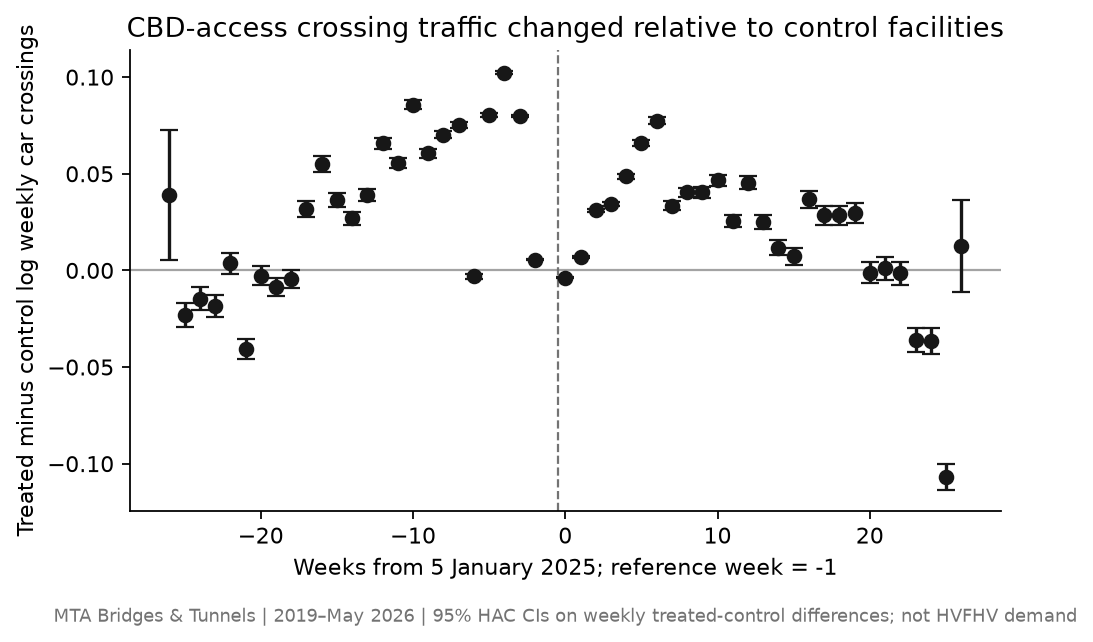
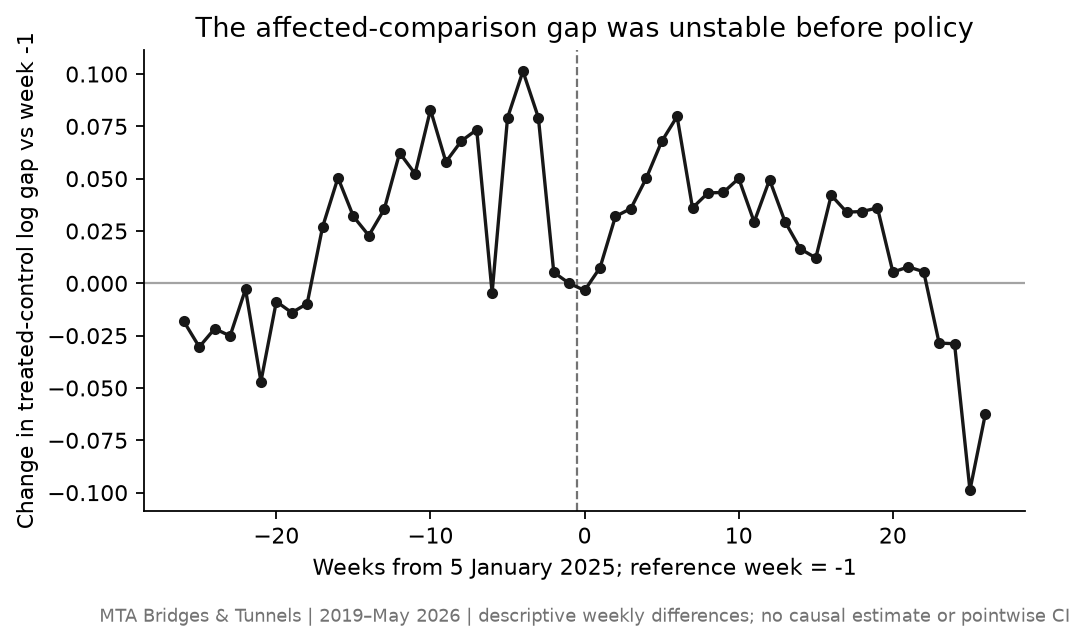
Focus portfolio and add public resume

diff --git a/src/app/resume/page.tsx b/src/app/resume/page.tsx
@@ -1,0 +1,79 @@
+import Link from "next/link";
+import { Button } from "@/components/ui/Button";
+import { education, experience, skills } from "@/lib/profile";
+import { getAllProjects } from "@/lib/mdx";
+
+export const metadata = {
+  title: "Resume",
+  description: "Public resume for Hadi Budhy, a data analyst focused on growth and decision analytics.",
+  alternates: { canonical: "/resume" },
+};
+
+export default function ResumePage() {
+  const selectedProjects = getAllProjects().filter((project) => ["campaign-incrementality", "mta-congestion-pricing-causal-audit", "marketplace-supply-demand"].includes(project.slug));
+
+  return (
+    <article className="mx-auto w-full max-w-3xl px-4 py-14 print:max-w-none print:px-0 print:py-0 sm:px-6 sm:py-20">
+      <header className="border-b border-border pb-10">
+        <p className="section-kicker">Public resume</p>
+        <h1 className="mt-4 text-4xl font-bold tracking-tight text-foreground sm:text-6xl">Hadi Budhy</h1>
+        <p className="mt-3 text-lg text-primary">Data Analyst · Growth &amp; Decision Analytics</p>
+        <p className="mt-4 max-w-2xl leading-7 text-muted-foreground">Jakarta, Indonesia · 5+ years across business intelligence, customer analytics, and data automation; applied AI demonstrated through public portfolio work.</p>
+        <div className="mt-6 flex flex-wrap gap-x-5 gap-y-2 text-sm font-semibold">
+          <a className="focus-ring text-primary hover:text-foreground" href="mailto:hadi.budhy@gmail.com">hadi.budhy@gmail.com</a>
+          <a className="focus-ring text-primary hover:text-foreground" href="https://linkedin.com/in/hadibudhy" target="_blank" rel="noreferrer">LinkedIn</a>
+          <a className="focus-ring text-primary hover:text-foreground" href="https://github.com/hadibudhy" target="_blank" rel="noreferrer">GitHub</a>
+        </div>
+      </header>
+
+      <section className="border-b border-border py-10">
+        <p className="section-kicker">Profile</p>
+        <p className="mt-4 leading-7 text-muted-foreground">Turns messy business data into decision-ready analysis, reliable reporting, and practical tests. Public work demonstrates experimental design, causal restraint, and marketplace measurement.</p>
+      </section>
+
+      <section className="border-b border-border py-10">
+        <p className="section-kicker">Experience</p>
+        <div className="mt-6">
+          {experience.map((item) => (
+            <div key={`${item.period}-${item.role}`} className="border-t border-border py-6 first:border-t-0 first:pt-0">
+              <div className="flex flex-col justify-between gap-2 sm:flex-row sm:items-baseline">
+                <h2 className="text-xl font-bold text-foreground">{item.role}</h2>
+                <span className="text-sm text-primary">{item.period}</span>
+              </div>
+              <p className="mt-1 text-sm font-semibold text-foreground/70">{item.setting}</p>
+              <p className="mt-3 leading-7 text-muted-foreground">{item.description}</p>
+            </div>
+          ))}
+        </div>
+      </section>
+
+      <section className="border-b border-border py-10">
+        <p className="section-kicker">Selected evidence</p>
+        <div className="mt-6 grid gap-5 sm:grid-cols-2">
+          {selectedProjects.map((project) => (
+            <Link key={project.slug} href={`/projects/${project.slug}`} className="focus-ring border-t border-border pt-4 hover:border-primary">
+              <h2 className="font-bold text-foreground">{project.meta.title}</h2>
+              <p className="mt-2 text-sm leading-6 text-muted-foreground">{project.meta.excerpt}</p>
+            </Link>
+          ))}
+        </div>
+      </section>
+
+      <section className="border-b border-border py-10">
+        <div>
+          <p className="section-kicker">Skills &amp; education</p>
+          <p className="mt-5 text-sm leading-7 text-muted-foreground">{skills.join(" · ")}</p>
+          <p className="mt-6 text-sm font-semibold leading-6 text-foreground">{education}</p>
+        </div>
+      </section>
+
+      <footer className="pt-10">
+        <p className="text-sm leading-6 text-muted-foreground">Professional employer names, scale, adoption, and outcome metrics are omitted when they cannot be verified in this public repository. Role-specific context can be discussed in an interview subject to confidentiality.</p>
+        <div className="mt-6 flex flex-wrap gap-3 print:hidden">
+          <Button asChild><a href="mailto:hadi.budhy@gmail.com">Contact Hadi</a></Button>
+          <Button variant="outline" asChild><Link href="/projects">Review case studies</Link></Button>
+        </div>
+      </footer>
+    </article>
+  );
+}

diff --git a/src/app/projects/page.tsx b/src/app/projects/page.tsx
@@ -3,19 +3,19 @@ import { getAllProjects } from "@/lib/mdx";
 
 export const metadata = {
   title: "Case Studies & Projects",
-  description: "Business-focused case studies across growth, product, operations, marketplace quality, and applied AI.",
+  description: "Business-focused case studies across growth, experimentation, marketplace operations, quality, and applied AI.",
   alternates: { canonical: "/projects" },
   openGraph: {
     type: "website",
     url: "https://hadibudhy.github.io/projects",
     title: "Case Studies & Projects | Hadi Budhy",
-    description: "Business-focused case studies across growth, product, operations, marketplace quality, and applied AI.",
+    description: "Business-focused case studies across growth, experimentation, marketplace operations, quality, and applied AI.",
     siteName: "Hadi Budhy",
   },
   twitter: {
     card: "summary",
     title: "Case Studies & Projects | Hadi Budhy",
-    description: "Business-focused case studies across growth, product, operations, marketplace quality, and applied AI.",
+    description: "Business-focused case studies across growth, experimentation, marketplace operations, quality, and applied AI.",
   },
 };
 
@@ -30,7 +30,7 @@ export default function ProjectsPage() {
         <div className="mx-auto w-full max-w-3xl px-4 py-12 sm:px-6 sm:py-14 md:py-16">
           <p className="section-kicker">Case studies</p>
           <h1 className="mt-5 max-w-4xl break-words text-[2.7rem] font-black tracking-[-0.05em] text-foreground sm:text-5xl md:text-7xl">Case studies built around real business questions.</h1>
-          <p className="mt-7 max-w-2xl text-lg leading-8 text-muted-foreground">A focused library of business case studies. Start with the featured work, then explore the deeper analyses across growth, product, operations, marketplace quality, and applied AI.</p>
+          <p className="mt-7 max-w-2xl text-lg leading-8 text-muted-foreground">A focused library of business case studies across growth, experimentation, marketplace operations, quality, and applied AI.</p>
         </div>
       </section>
       <section className="bg-muted/25">
@@ -40,7 +40,7 @@ export default function ProjectsPage() {
             <p className="mt-3 max-w-2xl text-sm leading-6 text-muted-foreground">{featuredProjects.length} studies put the business question, the available evidence, and the limits of each analysis in view.</p>
           </div>
           {projects.length === 0 ? <div className="surface p-8"><p className="text-lg font-semibold text-foreground">No case studies are available yet.</p><p className="mt-2 text-muted-foreground">Please return shortly or use the contact link to request the current portfolio.</p></div> : <div className="grid gap-5 sm:grid-cols-2">{featuredProjects.map((project) => <ProjectCard key={project.slug} slug={project.slug} meta={project.meta} featured />)}</div>}
-          {supportingProjects.length > 0 && <div className="mt-14"><p className="section-kicker mb-2">Supporting library</p><p className="mb-6 max-w-2xl text-sm leading-6 text-muted-foreground">Additional analyses demonstrate breadth across product, marketing, finance, marketplaces, operations, and risk.</p><div className="grid gap-5 sm:grid-cols-2">{supportingProjects.map((project) => <ProjectCard key={project.slug} slug={project.slug} meta={project.meta} />)}</div></div>}
+          {supportingProjects.length > 0 && <div className="mt-14"><p className="section-kicker mb-2">Supporting library</p><p className="mb-6 max-w-2xl text-sm leading-6 text-muted-foreground">Additional analyses show supporting work in customer growth and quality prioritization.</p><div className="grid gap-5 sm:grid-cols-2">{supportingProjects.map((project) => <ProjectCard key={project.slug} slug={project.slug} meta={project.meta} />)}</div></div>}
         </div>
       </section>
     </div>

diff --git a/src/app/page.tsx b/src/app/page.tsx
@@ -25,12 +25,13 @@ export default function Home() {
             </div>
           </div>
           <div className="space-y-5 sm:space-y-6">
-            <h1 className="max-w-full text-[1.8rem] font-normal leading-tight tracking-tight text-foreground sm:text-[2.3rem]">Decision-ready analysis for growth, product, and operations teams.</h1>
+            <h1 className="max-w-full text-[1.8rem] font-normal leading-tight tracking-tight text-foreground sm:text-[2.3rem]">Decision-ready analysis for growth, marketplace, and operations teams.</h1>
             <p className="text-base font-light leading-7 text-muted-foreground sm:text-lg sm:leading-8">I turn messy data into evidence for what to invest in, what to test, and what to stop—while keeping uncertainty visible.</p>
-            <p className="text-sm font-medium leading-6 text-primary">Primary target: Senior Data Analyst · Growth &amp; Decision Analytics. Secondary strengths: experimentation, product analytics, marketplace operations, and analytics engineering.</p>
+            <p className="text-sm font-medium leading-6 text-primary">Primary target: Senior Data Analyst · Growth &amp; Decision Analytics. Secondary strengths: experimentation, marketplace operations, analytics engineering, and applied AI.</p>
             <p className="max-w-2xl text-base leading-7 text-foreground"><span className="font-semibold">Why hire me:</span> In professional work, I own alerting, warehouse pipelines, and live dashboards; in portfolio work, I show how to turn a growth question into a holdout, reject a weak causal comparison, separate marketplace proxies from demand, and build an auditable AI workflow with safe fallback.</p>
             <div className="flex flex-wrap gap-3 pt-2">
               <Button size="lg" asChild><Link href="#work">View the work <span className="ml-3" aria-hidden="true">→</span></Link></Button>
+              <Button size="lg" variant="outline" asChild><Link href="/resume">View resume</Link></Button>
               <Button size="lg" variant="outline" asChild><a href="mailto:hadi.budhy@gmail.com">Get in touch</a></Button>
             </div>
           </div>
@@ -66,7 +67,7 @@ export default function Home() {
             <div>
               <p className="section-kicker">Selected work</p>
               <h2 className="section-title mt-4">Selected case studies and analysis.</h2>
-              <p className="mt-5 max-w-2xl leading-7 text-muted-foreground">{featuredProjects.length} featured case studies put the questions, evidence, and trade-offs first. The full library covers growth, product, operations, marketplace quality, and applied AI.</p>
+              <p className="mt-5 max-w-2xl leading-7 text-muted-foreground">{featuredProjects.length} featured case studies put the questions, evidence, and trade-offs first. The supporting library adds customer growth and quality prioritization.</p>
             </div>
             <Link href="/projects" className="focus-ring inline-flex items-center text-sm font-bold text-primary transition-colors hover:text-foreground">View all projects <span className="ml-2 text-lg" aria-hidden="true">→</span></Link>
           </div>

diff --git a/src/app/about/page.tsx b/src/app/about/page.tsx
@@ -18,7 +18,7 @@ export default function AboutPage() {
           <h1 className="mt-5 max-w-4xl break-words text-[2.7rem] font-bold tracking-[-0.05em] text-foreground sm:text-5xl md:text-7xl">Hadi Budhy works from messy data toward a clearer decision.</h1>
           <div className="mt-8 grid gap-8 lg:grid-cols-[1fr_0.8fr] lg:gap-20">
             <div className="space-y-5 text-lg leading-8 text-muted-foreground">
-              <p>Hadi Budhy is a Data Analyst focused on growth and decision analytics, with 5+ years of experience across business intelligence, customer analytics, data automation, and applied AI, based in Jakarta, Indonesia. His primary target is Senior Data Analyst · Growth &amp; Decision Analytics, with secondary strengths in experimentation, product analytics, marketplace operations, and analytics engineering.</p>
+              <p>Hadi Budhy is a Data Analyst focused on growth and decision analytics, with 5+ years of experience across business intelligence, customer analytics, data automation, and applied AI, based in Jakarta, Indonesia. His primary target is Senior Data Analyst · Growth &amp; Decision Analytics, with secondary strengths in experimentation, marketplace operations, analytics engineering, and applied AI.</p>
               <p>He helps teams turn scattered information into evidence they can trust, decisions they can explain, and workflows they can operate.</p>
             </div>
             <div className="border-l border-primary/50 pl-6 text-sm leading-7 text-muted-foreground">His work spans reliable data pipelines, forecasting and classification models, and dashboards that help teams understand what is happening and what to do next. This public summary keeps employer, client, and operational details intentionally high level.<p className="mt-5 text-xs font-bold uppercase tracking-[0.16em] text-primary">{education}</p></div>

diff --git a/src/lib/profile.ts b/src/lib/profile.ts
@@ -1,9 +1,8 @@
 export const capabilities = [
   { title: "Growth and decision analytics", evidence: "Campaign incrementality, retention, and decision-ready experiments." },
   { title: "Experimentation and causal inference", evidence: "Holdouts, event studies, uncertainty, and clear limits on causal claims." },
-  { title: "Marketplace and operations analytics", evidence: "Supply signals, trip economics, quality risk, and operational pilots." },
+  { title: "Marketplace and operations analytics", evidence: "Supply signals, marketplace measurement, quality prioritization, and operational pilots." },
   { title: "Analytics engineering", evidence: "Professional experience with warehouse pipelines, alerting, APIs, and reliable reporting systems; public implementation details are limited." },
-  { title: "Product analytics", evidence: "Instrumentation audits and measurement plans for product journeys." },
   { title: "Decision systems", evidence: "Auditable AI workflows, evaluation, escalation, and governance." },
 ];
 

diff --git a/src/components/layout/Navbar.tsx b/src/components/layout/Navbar.tsx
@@ -4,13 +4,13 @@ const links = [
   { label: "About", href: "/about" },
   { label: "Experience", href: "/#experience" },
   { label: "Work", href: "/#work" },
-  { label: "Skills", href: "/#skills" },
+  { label: "Resume", href: "/resume" },
   { label: "Projects", href: "/projects" },
 ];
 
 export function Navbar() {
   return (
-    <header className="sticky top-0 z-50 border-b border-border bg-background/95 backdrop-blur-sm">
+    <header className="sticky top-0 z-50 border-b border-border bg-background/95 backdrop-blur-sm print:hidden">
       <div className="mx-auto flex min-h-14 w-full max-w-3xl items-center justify-between gap-4 px-4 py-3 sm:px-6 sm:py-4">
         <Link href="/" className="focus-ring flex min-w-0 shrink-0 items-center gap-3" aria-label="Hadi Budhy home">
           <span className="text-sm font-bold tracking-tight text-foreground">HB</span>

diff --git a/src/app/sitemap.ts b/src/app/sitemap.ts
@@ -5,7 +5,7 @@ export const dynamic = "force-static";
 
 export default function sitemap(): MetadataRoute.Sitemap {
   const baseUrl = "https://hadibudhy.github.io";
-  const routes = ["", "/about", "/projects", "/privacy", "/terms"].map((path) => ({
+  const routes = ["", "/about", "/projects", "/resume", "/privacy", "/terms"].map((path) => ({
     url: `${baseUrl}${path}`,
     lastModified: new Date("2026-08-15T00:00:00Z"),
   }));

diff --git a/src/components/layout/Footer.tsx b/src/components/layout/Footer.tsx
@@ -1,6 +1,6 @@
 export function Footer() {
   return (
-    <footer className="mt-auto border-t border-border bg-muted/40">
+    <footer className="mt-auto border-t border-border bg-muted/40 print:hidden">
       <div className="mx-auto flex w-full max-w-3xl flex-col gap-6 px-4 py-8 sm:px-6 md:flex-row md:items-end md:justify-between">
         <div>
           <p className="text-sm font-semibold text-foreground">Hadi Budhy</p>

diff --git a/projects/growth-analytics/03-congestion-pricing-causal-impact/src/analyze_mta_did.py b/projects/growth-analytics/03-congestion-pricing-causal-impact/src/analyze_mta_did.py
@@ -13,7 +13,6 @@ from pathlib import Path
 
 import matplotlib.pyplot as plt
 import pandas as pd
-import statsmodels.formula.api as smf
 
 
 ROOT = Path(__file__).resolve().parents[4]
@@ -23,25 +22,21 @@ CHART = ROOT / "public/images/growth-mta-event-study.png"
 TREATED_FACILITIES = {22, 27, 28}  # RFK Manhattan, Queens-Midtown Tunnel, Hugh L. Carey Tunnel
 
 
-def fit(frame: pd.DataFrame, policy_date: pd.Timestamp) -> tuple[dict, pd.DataFrame]:
+def describe(frame: pd.DataFrame, policy_date: pd.Timestamp) -> tuple[dict, pd.DataFrame]:
     grouped = frame.groupby(["week", "treated"], as_index=False).agg(log_traffic=("log_traffic", "mean"))
     treated = grouped[grouped["treated"] == 1].set_index("week")["log_traffic"]
     control = grouped[grouped["treated"] == 0].set_index("week")["log_traffic"]
     sample = pd.DataFrame({"difference": treated - control}).dropna().reset_index()
     sample["days_from_policy"] = (sample["week"] - policy_date).dt.days
-    sample["event_week"] = (sample["days_from_policy"] // 7).clip(-26, 26)
-    sample["time_index"] = range(len(sample))
-    model = smf.ols("difference ~ time_index + C(event_week, Treatment(reference=-1))", data=sample).fit(cov_type="HAC", cov_kwds={"maxlags": 4})
-    effects = []
-    for name in model.params.index:
-        if "C(event_week" in name:
-            event_week = int(name.split("T.", 1)[1].split("]", 1)[0])
-            interval = model.conf_int().loc[name]
-            effects.append({"event_week": event_week, "effect": float(model.params[name]), "p_value": float(model.pvalues[name]), "ci95": [float(interval[0]), float(interval[1])]})
-    pre_sample = sample[sample["event_week"] < -1]
-    pre_trend_model = smf.ols("difference ~ time_index", data=pre_sample).fit(cov_type="HAC", cov_kwds={"maxlags": 4})
-    pre_trend_linear_p_value_hac = float(pre_trend_model.pvalues["time_index"])
-    return {"effects": sorted(effects, key=lambda row: row["event_week"]), "n_week_facility": len(frame), "weeks": int(sample["week"].nunique()), "pre_trend_linear_p_value_hac": pre_trend_linear_p_value_hac}, sample
+    sample["event_week"] = sample["days_from_policy"] // 7
+    reference = sample.loc[sample["event_week"] == -1, "difference"]
+    if len(reference) != 1:
+        raise ValueError("MTA panel must contain exactly one reference week")
+    window = sample[sample["event_week"].between(-26, 26)].copy()
+    window["effect"] = window["difference"] - reference.iloc[0]
+    effects = [{"event_week": int(row.event_week), "effect": float(row.effect)} for row in window.itertuples()]
+    pre_policy = window[window["event_week"] < -1]["effect"]
+    return {"effects": effects, "n_week_facility": len(frame), "weeks": int(sample["week"].nunique()), "pre_policy_effect_range": [float(pre_policy.min()), float(pre_policy.max())]}, sample
 
 
 def main() -> None:
@@ -56,24 +51,20 @@ def main() -> None:
     panel = raw.groupby(["week", "facility_id", "facility", "treated"], as_index=False).agg(traffic_count=("traffic_count", "sum"))
     panel["log_traffic"] = (panel["traffic_count"] + 1).map(math.log)
     policy = pd.Timestamp("2025-01-05")
-    result, fitted = fit(panel, policy)
-    placebo_results = []
-    for days in [14, 28, 56]:
-        placebo, _ = fit(panel, policy - pd.Timedelta(days=days))
-        placebo_results.append({"placebo_date": (policy - pd.Timedelta(days=days)).strftime("%Y-%m-%d"), "effects": placebo["effects"]})
-    result.update({"policy_date": policy.strftime("%Y-%m-%d"), "source_period": [raw.date.min().strftime("%Y-%m-%d"), raw.date.max().strftime("%Y-%m-%d")], "treated_facilities": sorted(TREATED_FACILITIES), "control_facilities": sorted(set(raw.facility_id) - TREATED_FACILITIES), "grain": "facility-week", "estimand": "treated-minus-control change in log(1 + weekly car crossings), relative to event week -1", "placebo_tests": placebo_results, "limitations": ["Ten facility clusters make clustered uncertainty fragile", "This is all-car bridge/tunnel traffic, not HVFHV demand", "No route-level toll exposure or rider outcomes", "Spillovers and facility-specific shocks remain possible"]})
+    result, _ = describe(panel, policy)
+    result.update({"policy_date": policy.strftime("%Y-%m-%d"), "source_period": [raw.date.min().strftime("%Y-%m-%d"), raw.date.max().strftime("%Y-%m-%d")], "treated_facilities": sorted(TREATED_FACILITIES), "control_facilities": sorted(set(raw.facility_id) - TREATED_FACILITIES), "grain": "facility-week", "estimand": "descriptive treated-minus-control change in log(1 + weekly car crossings), relative to event week -1", "limitations": ["Each event week is one treated-control weekly difference, so no pointwise inference is reported", "This is all-car bridge/tunnel traffic, not HVFHV demand", "No route-level toll exposure or rider outcomes", "Spillovers, seasonality, and facility-specific shocks remain possible"]})
     OUTPUT.parent.mkdir(parents=True, exist_ok=True)
     OUTPUT.write_text(json.dumps(result, indent=2), encoding="utf-8")
     effects = pd.DataFrame(result["effects"])
     figure, axis = plt.subplots(figsize=(7, 4.2))
     axis.axhline(0, color="#a3a3a3", linewidth=1)
     axis.axvline(-0.5, color="#737373", linestyle="--", linewidth=1)
-    axis.errorbar(effects.event_week, effects.effect, yerr=[effects.effect - effects.ci95.map(lambda value: value[0]), effects.ci95.map(lambda value: value[1]) - effects.effect], fmt="o", color="#171717", capsize=4)
-    axis.set_title("CBD-access crossing traffic changed relative to control facilities")
+    axis.plot(effects.event_week, effects.effect, marker="o", color="#171717", linewidth=1.5, markersize=4)
+    axis.set_title("The affected-comparison gap was unstable before policy")
     axis.set_xlabel("Weeks from 5 January 2025; reference week = -1")
-    axis.set_ylabel("Treated minus control log weekly car crossings")
+    axis.set_ylabel("Change in treated-control log gap vs week -1")
     axis.spines[["top", "right"]].set_visible(False)
-    axis.text(0.5, -0.24, "MTA Bridges & Tunnels | 2019–May 2026 | 95% HAC CIs on weekly treated-control differences; not HVFHV demand", ha="center", transform=axis.transAxes, fontsize=8, color="#737373")
+    axis.text(0.5, -0.24, "MTA Bridges & Tunnels | 2019–May 2026 | descriptive weekly differences; no causal estimate or pointwise CI", ha="center", transform=axis.transAxes, fontsize=8, color="#737373")
     figure.tight_layout()
     figure.savefig(CHART, dpi=160, bbox_inches="tight")
     plt.close(figure)

diff --git a/src/content/projects/mta-congestion-pricing-causal-audit.md b/src/content/projects/mta-congestion-pricing-causal-audit.md
@@ -24,7 +24,7 @@ Traffic changes naturally. Weather, holidays, construction, commuting patterns, 
 ## Decision brief
 
 - **Recommendation:** do not use this comparison group to claim a congestion-pricing effect or change rider pricing.
-- **Evidence:** affected crossings were already **8.0%–10.2%** above comparison crossings in placebo event weeks.
+- **Evidence:** the affected-comparison gap changed materially in both directions before the policy date.
 - **Potential value:** none estimated; this study is a decision-quality audit.
 - **Evidence strength:** High for rejecting this comparator; insufficient for estimating the policy effect.
 - **Cost / resource requirement:** A credible estimate requires a new comparator, route-exposure data, and internal ride outcomes; cost cannot be estimated from this study.
@@ -35,7 +35,7 @@ Traffic changes naturally. Weather, holidays, construction, commuting patterns, 
 
 ## My role
 
-I owned the event-study specification, comparator audit, placebo interpretation, and recommendation to pause the causal claim. I did not control the policy, facility operations, or ride-hailing data. I would hand the decision owner a rejected comparator, a pre-registered replacement rule, and the evidence required before pricing action. [Reproducible analysis and validation notes](https://github.com/hadibudhy/hadibudhy.github.io/tree/master/projects/growth-analytics/03-congestion-pricing-causal-impact) show the design and limits.
+I owned the event-time diagnostic, comparator audit, and recommendation to pause the causal claim. I did not control the policy, facility operations, or ride-hailing data. I would hand the decision owner a rejected comparator, a pre-registered replacement rule, and the evidence required before pricing action. [Reproducible analysis and validation notes](https://github.com/hadibudhy/hadibudhy.github.io/tree/master/projects/growth-analytics/03-congestion-pricing-causal-impact) show the design and limits.
 
 ## Data used
 
@@ -48,16 +48,16 @@ Three facilities provide access toward the central business district: RFK Bridge
 1. Compare affected and comparison facilities before the policy.
 2. Check whether they were moving in a similar way.
 3. Compare their changes around the policy date.
-4. Run placebo dates to see whether the same pattern appears before the policy.
+4. Inspect whether apparent breaks also occur before the policy.
 5. Stop the causal conclusion if the comparison group is not credible.
 
-The method is an event study. In plain language, it compares the gap between the two groups week by week around the policy instead of relying on one before-and-after average.
+The method is a descriptive event-time diagnostic. In plain language, it compares the gap between the two groups week by week around the policy instead of relying on one before-and-after average. Each event week is only one weekly group difference, so the chart does not report pointwise confidence intervals or p-values.
 
 ## Key findings
 
 ### The comparison group was already moving differently
 
-Before congestion pricing began, the affected crossings were already above the comparison crossings by about **10.2% in one earlier event week** and **8.0% in another**.
+Before congestion pricing began, the affected-comparison gap changed materially in both directions rather than staying near a stable baseline.
 
 ![MTA bridge and tunnel event study: affected crossings were already moving differently before congestion pricing, so the comparison is not reliable](/images/growth-mta-event-study.png)
 
@@ -65,7 +65,7 @@ Before congestion pricing began, the affected crossings were already above the c
 
 ### The most useful result is a decision to pause the claim
 
-The model can still show a post-policy difference, but that difference may reflect the pre-existing gap or another shock. A precise number is not useful if the comparison is biased.
+The chart can still show a post-policy difference, but that difference may reflect the pre-existing gap or another shock. A precise number is not useful if the comparison is biased.
 
 **Business meaning:** a Country Manager should not change rider prices or driver incentives based on this result. The better next step is to build a comparison that matches the affected facilities before the policy.
 
@@ -96,9 +96,9 @@ The strongest analysis is sometimes the one that refuses a weak answer. This stu
 | Check | Current evidence | Decision |
 |---|---|---|
 | Control selection | 3 affected facilities versus 7 comparison facilities; selected before interpreting post-policy movement | Keep as an audit, not a final estimate |
-| Panel and model | 3,880 facility-week rows across 388 weeks and 10 facilities; log(1 + weekly car crossings), time index, event-week indicators, HAC max lags 4 | Reproducible but only 10 facility clusters |
-| Pre-trends | Several pre-policy leads differ from zero, including event week −4 (effect 0.102; p < 0.001) | Fails the required parallel-trends check |
-| Placebo dates | Placebo interventions on 10 Nov, 8 Dec, and 22 Dec 2024 also produce significant movements | Comparator is not credible for causal attribution |
-| Formal pre-trend test | HAC test of the pre-policy linear slope: **p = 0.011** | The treated-control gap was already changing before policy; the comparator is not clean |
+| Panel and diagnostic | 3,880 facility-week rows across 388 weeks and 10 facilities; log(1 + weekly car crossings), centered on event week −1 | Reproducible descriptive comparison |
+| Pre-policy pattern | Weekly affected-comparison differences change direction and magnitude before policy | Comparator is not stable enough for causal attribution |
+| Inference audit | Each displayed event week is one weekly group difference; pointwise residual-based p-values and confidence intervals are not reported | Avoids false precision from singleton event bins |
+| Outcome scope | All-car crossing traffic, not ride-hailing requests, supply, trips, or revenue | Use as external context only |
 
-The event-study script estimates the difference between affected and comparison facilities by week around 5 January 2025. It uses HAC uncertainty on the weekly group difference. The pre-policy coefficients are the reason the causal claim is blocked. [Reproducible code, validation output, and zone-exposure notes](https://github.com/hadibudhy/hadibudhy.github.io/tree/master/projects/growth-analytics/03-congestion-pricing-causal-impact) are available for review.
+The event-time script describes the difference between affected and comparison facilities by week around 5 January 2025. The unstable pre-policy gap is the reason the causal claim is blocked; the script deliberately does not attach pointwise inference to singleton weekly event bins. [Reproducible code, validation output, and zone-exposure notes](https://github.com/hadibudhy/hadibudhy.github.io/tree/master/projects/growth-analytics/03-congestion-pricing-causal-impact) are available for review.

diff --git a/src/content/projects/2026-08-13-restaurant-quality-strategy.md b/src/content/projects/2026-08-13-restaurant-quality-strategy.md
@@ -108,4 +108,4 @@ Success means a lower repeat-critical rate without reducing inspection coverage.
 
 The source is the [NYC Restaurant Inspection Results dataset](https://data.cityofnewyork.us/d/43nn-pn8j). The catalog says the data is public but does not list an explicit license, so the source and attribution are retained. The source also warns that administrative records may contain illogical values caused by data-entry or transfer errors. This analysis uses 2022-2025 records, groups by `camis`, `inspection_date`, and `inspection_type`, takes the maximum score within an inspection, and marks an inspection as critical when any associated violation has `critical_flag = Critical`.
 
-**Dataset details:** [View the NYC Open Data source](https://data.cityofnewyork.us/d/43nn-pn8j)
+**Validation resources:** [View the chart and bootstrap code](https://github.com/hadibudhy/hadibudhy.github.io/blob/master/scripts/generate_chart_replacements.py) · [View the NYC Open Data source](https://data.cityofnewyork.us/d/43nn-pn8j)

diff --git a/src/content/projects/2026-08-15-online-retail-customer-growth.md b/src/content/projects/2026-08-15-online-retail-customer-growth.md
@@ -110,4 +110,4 @@ The test succeeds only if repeat revenue rises without increasing cancellations 
 
 The source is the [UCI Online Retail dataset](https://archive.ics.uci.edu/dataset/352/online%2Bretail), licensed CC BY 4.0. The raw file covers 2010-12-01 through 2011-12-09. The cleaned analysis removed cancelled invoices, non-positive quantities, non-positive prices, and rows without `CustomerID`. Revenue is `Quantity * UnitPrice`; cost, margin, shipping cost, and marketing spend are not available, so this case study discusses revenue opportunity rather than profit.
 
-**Code and data:** [View the UCI dataset](https://archive.ics.uci.edu/dataset/352/online%2Bretail)
+**Validation resources:** [View the chart-generation code](https://github.com/hadibudhy/hadibudhy.github.io/blob/master/scripts/generate_chart_replacements.py) · [View the UCI dataset](https://archive.ics.uci.edu/dataset/352/online%2Bretail)
